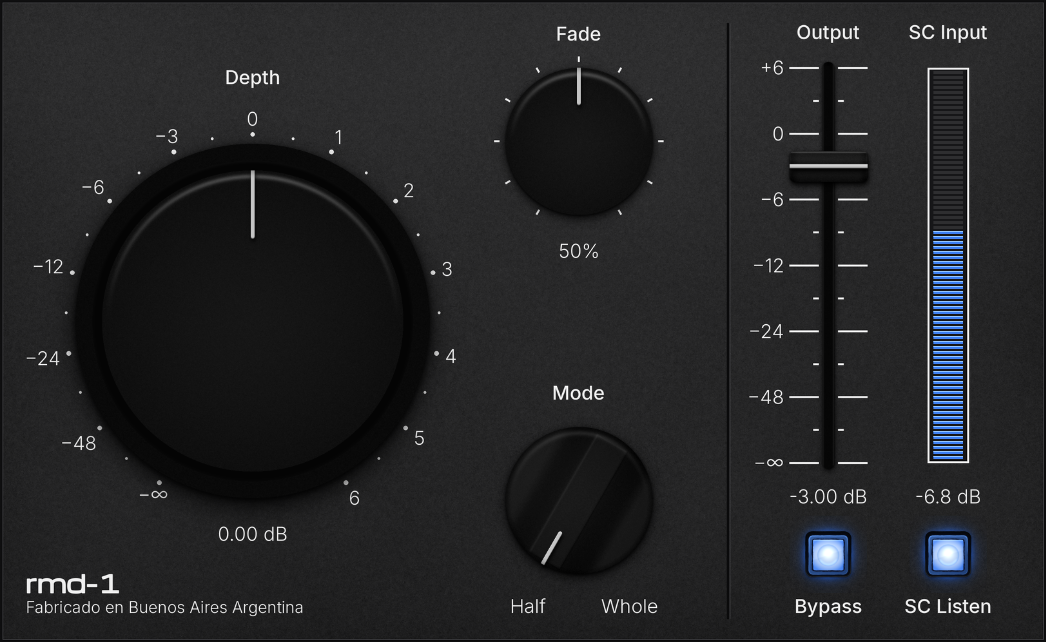
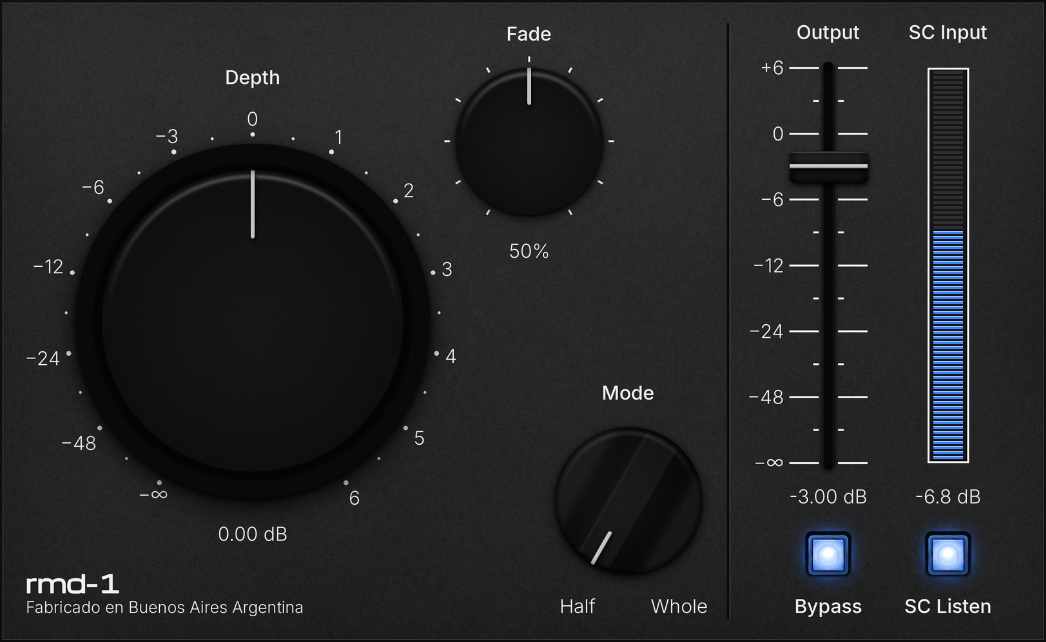
Fade centrado en el segundo tercio y Mode en el tercero (prueba) [skip ci]
Claude-Session: https://claude.ai/code/session_01LmYTuHAKQSU8qhR6nNkVAi

diff --git a/Source/PluginEditor.cpp b/Source/PluginEditor.cpp
@@ -7,8 +7,8 @@ namespace
 {
     // ---- geometria en unidades de diseno (ventana 1671 x 1044) ----
     constexpr float kDepthCx = 416.0f, kDepthCy = 522.0f, kDepthR = 275.0f;
-    constexpr float kFadeCx = 922.0f, kFadeCy = 243.0f, kFadeR = 114.0f;
-    constexpr float kModeCx = 922.0f, kModeCy = 800.0f, kModeR = 114.0f;
+    constexpr float kFadeCx = 845.0f, kFadeCy = 243.0f, kFadeR = 114.0f;
+    constexpr float kModeCx = 999.0f, kModeCy = 800.0f, kModeR = 114.0f;
     constexpr float kDefaultScale = 321.0f / 996.0f;               // tamano de la ventana: 321 de alto (y 523 de ancho)
     constexpr float kArtW = 1623.0f, kArtH = 996.0f;              // arte ya recortado
     constexpr int   kCrop = 24;                                   // el recorte de la ventana: se corta por la linea oscura del marco
@@ -269,13 +269,13 @@ namespace
     {
         ModeKnob (RangedAudioParameter& p, Image h, Image w) : Ctl (p), halfImg (h), wholeImg (w)
         {
-            setDesign ({ 783, 661, 279, 279 });
+            setDesign ({ 860, 661, 279, 279 });
         }
         bool hitTest (int x, int y) override { return designOf (x, y).getDistanceFrom ({ kModeCx, kModeCy }) <= kModeR; }
         void paint (Graphics& g) override
         {
             beginDesign (g);
-            g.drawImageAt (norm() >= 0.5f ? wholeImg : halfImg, 785, 663);
+            g.drawImageAt (norm() >= 0.5f ? wholeImg : halfImg, 862, 663);
         }
         void setWhole (bool w) { att.setValueAsCompleteGesture (w ? 1.0f : 0.0f); }
         // clic y arrastre: hacia la derecha/abajo = Whole, hacia la izquierda/arriba = Half (un clic solo no cambia nada)
@@ -436,7 +436,7 @@ struct PhantomAsymEditor::Impl
                img (BinaryData::ui_fade_body_png, BinaryData::ui_fade_body_pngSize),
                img (BinaryData::ui_fade_ptr_png, BinaryData::ui_fade_ptr_pngSize),
                kFadeCx, kFadeCy, kFadeR, (0.40f / 0.775f + 1.1f) / 2.0f * kFadeR, 71,
-               { 782, 101, 281, 336 }, { 785, 106 }, 424, 30.0f, false, tfLight, 10.0f),
+               { 705, 101, 281, 336 }, { 708, 106 }, 424, 30.0f, false, tfLight, 10.0f),
           mode (*p.apvts.getParameter ("mode"),
                 img (BinaryData::ui_mode_half_png, BinaryData::ui_mode_half_pngSize),
                 img (BinaryData::ui_mode_whole_png, BinaryData::ui_mode_whole_pngSize)),
@@ -550,7 +550,7 @@ void PhantomAsymEditor::mouseDown (const MouseEvent& e)
     const auto p = e.position / scale + Point<float> ((float) kCrop, (float) kCrop);
     if (p.y >= 936.0f && p.y <= 991.0f)
     {
-        if (p.x >= 803.0f && p.x <= 883.0f)       impl->mode.setWhole (false);
-        else if (p.x >= 961.0f && p.x <= 1041.0f) impl->mode.setWhole (true);
+        if (p.x >= 880.0f && p.x <= 960.0f)       impl->mode.setWhole (false);
+        else if (p.x >= 1038.0f && p.x <= 1118.0f) impl->mode.setWhole (true);
     }
 }

diff --git a/UI_definitiva/generadores/bg_gen.py b/UI_definitiva/generadores/bg_gen.py
@@ -41,7 +41,7 @@ def aa_ticks(cx,cy,r0,r1,angles,w=3.0,K=16):   # ticks radiales con borde suave 
         md.polygon([(x*K,y*K) for x,y in P],fill=255)
     m=m.resize((sz*S,sz*S),Image.BOX); ox,oy=int((cx-pad)*S),int((cy-pad)*S)
     img.paste(Image.new('RGB',m.size,G),(ox,oy),m)
-aa_ticks(922,243,114+9,114+9+8.5,A11)   # Fade: 11 ticks (0..100 %, de a 10, cada 30 grados), 8,5 de largo y 3 de ancho
+aa_ticks(845,243,114+9,114+9+8.5,A11)   # Fade: 11 ticks (0..100 %, de a 10, cada 30 grados), 8,5 de largo y 3 de ancho
 d.line(sc(divX,60,divX,H-60),fill=(12,12,13),width=4*S); d.line(sc(divX+3,60,divX+3,H-60),fill=(84,84,88),width=1*S)
 fx=1309
 box(1463,pt,1527,fb)
@@ -63,8 +63,8 @@ def ctitle(x,t,ymid):   # titulo con la tinta centrada en ymid (vertical) y en x
     d.text((x*S-(bx[0]+bx[2])/2,base*S),t,font=L,fill=G,anchor='ms'); print(t,'tinta',round(base+bb[1]/S,1),'->',round(base+bb[3]/S,1))
 YM=(24+pt)/2   # centro entre el borde interno de la ventana (y=24) y el tope de la perilla / fader
 ctitle(416,'Depth',147)
-ctitle(922,'Fade',YM)
-ctitle(922,'Mode',633.5)
+ctitle(845,'Fade',YM)
+ctitle(999,'Mode',633.5)
 ctitle(fx,'Output',YM); ctitle(1495,'SC Input',YM)
 bf=FM(30); GAP_T=10
 bb=d.textbbox((0,0),'Input Listen',font=bf,anchor='ls'); th=(-bb[1])/S; desc=bb[3]/S
@@ -74,8 +74,8 @@ YB=(by1+(H-24))/2; base=YB-(bb[1]+bb[3])/(2*S)  # tinta centrada entre fin de bo
 for cx,name in ((fx,"Bypass"),(1495,"SC Listen")):
     txt(cx,base,name,bf,'ms')
 BH=base   # linea de base de Half / Whole = la de los valores de abajo
-HW=FL(30); XH=922-(119*math.sin(math.radians(30))+34*math.tan(math.radians(30)))   # centro de Half (Whole es simetrico)
-txt(XH,BH,'Half',HW,'ms'); txt(1844-XH,BH,'Whole',HW,'ms')
+HW=FL(30); XH=999-(119*math.sin(math.radians(30))+34*math.tan(math.radians(30)))   # centro de Half (Whole es simetrico)
+txt(XH,BH,'Half',HW,'ms'); txt(1998-XH,BH,'Whole',HW,'ms')
 # escala de Depth estilo referencia: puntitos + numeros (0 dB al centro, +6 a la derecha lineal, mitad izquierda logaritmica)
 LAB=['\u2212\u221e','\u221248','\u221224','\u221212','\u22126','\u22123','0','1','2','3','4','5','6']
 cx_,cy_,R_=416,522,275; fs=FL(30)
